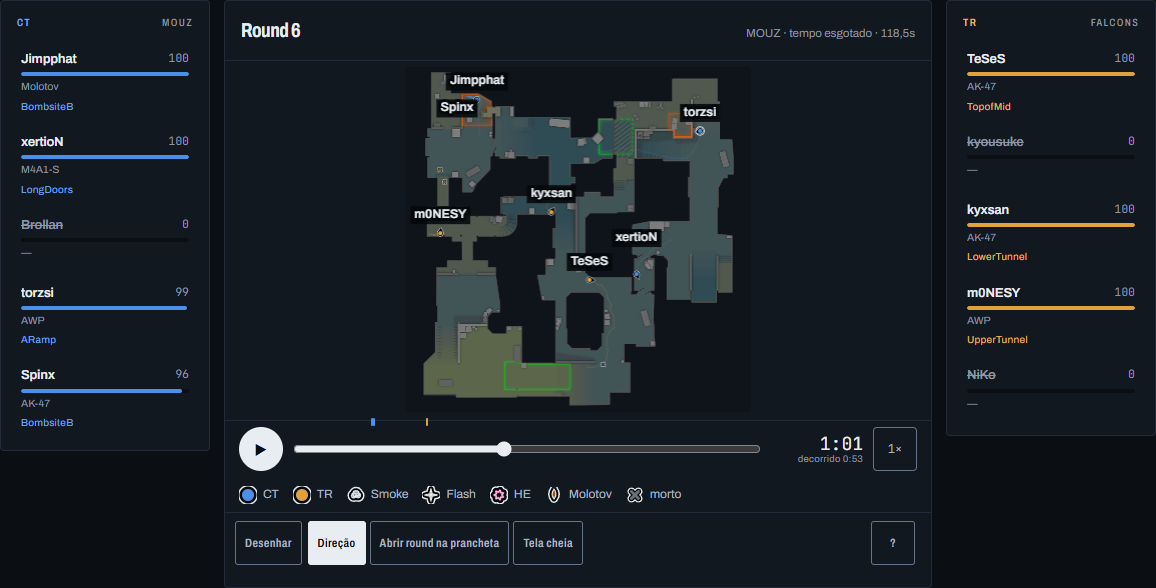
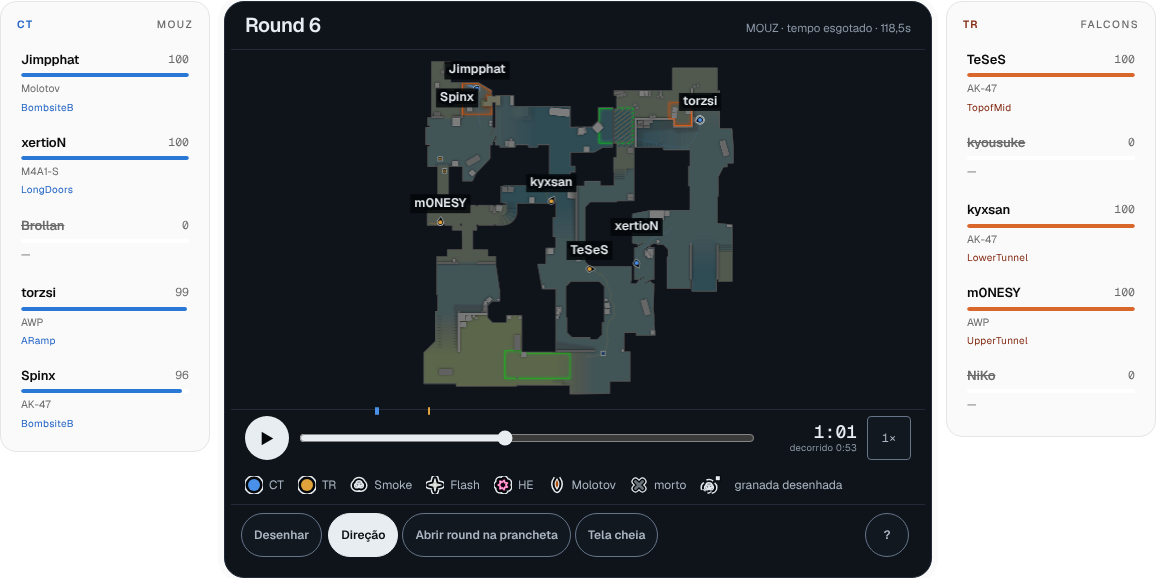
README: imagens regeradas no visual da v2 (capturas_readme com as fontes ao lado e o Chromium sem Chrome)
capturas_readme gerava as páginas numa pasta sem fontes/ (a captura saía com o substituto) e só abria o Chrome do
Windows: copia as fontes como o build e cai no Chromium do Playwright. replay, insights, jogadores, perfil e prancheta
regerados (Linux, 1280x900).

Claude-Session: https://claude.ai/code/session_01Lv7wTrVE47Wii8JSd8VXTX

diff --git a/scripts/capturas_readme.py b/scripts/capturas_readme.py
@@ -48,9 +48,13 @@ def gera() -> list[Path]:
     partida.write_text(build_html(PARTIDA), encoding="utf-8")
     prancheta = pasta / f"prancheta_{mapa}.html"
     prancheta.write_text(prancheta_html(mapa), encoding="utf-8")
+    # as fontes ao lado das páginas, como o build faz em docs/ (sem elas a captura sairia com o substituto)
+    from scripts.design_head import copia_fontes
+    copia_fontes(pasta)
     feitas = []
     with sync_playwright() as p:
-        nav = p.chromium.launch(channel="chrome")
+        from scripts.design._comum import chrome
+        nav = chrome(p)   # o Chrome do sistema; sem ele (Linux, CI), o Chromium do Playwright
         ctx = nav.new_context(viewport={"width": LARGURA, "height": ALTURA}, device_scale_factor=1)
         ctx.add_init_script("try { localStorage.setItem('replay:direcao', '1'); } catch (e) {}")
         pg = ctx.new_page()
